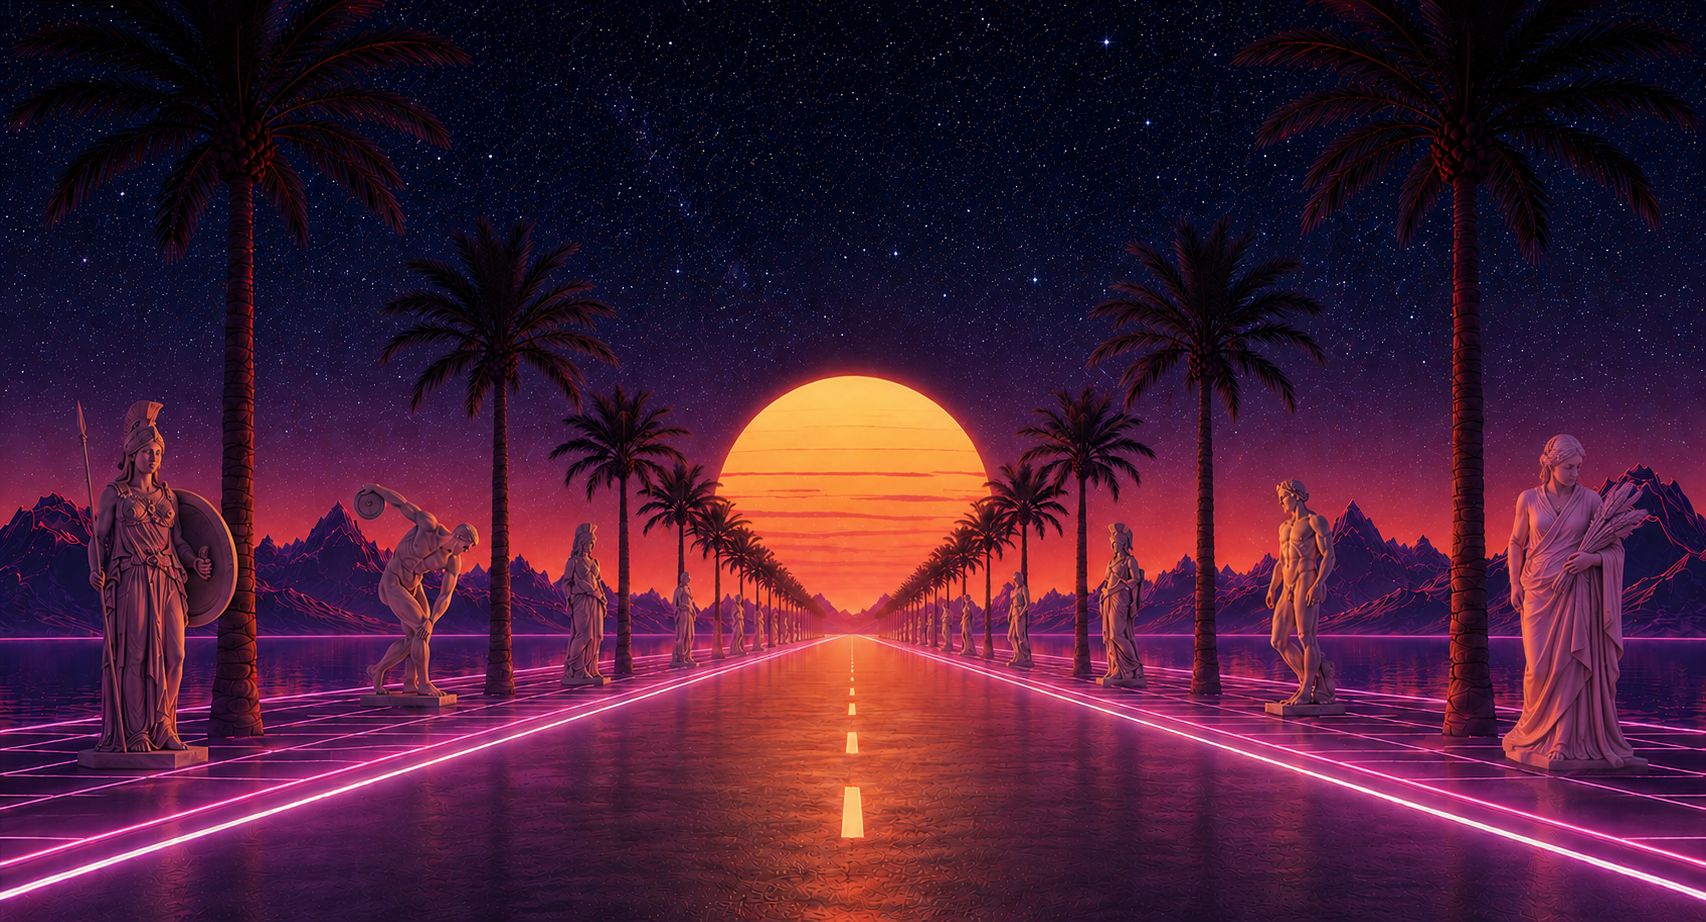
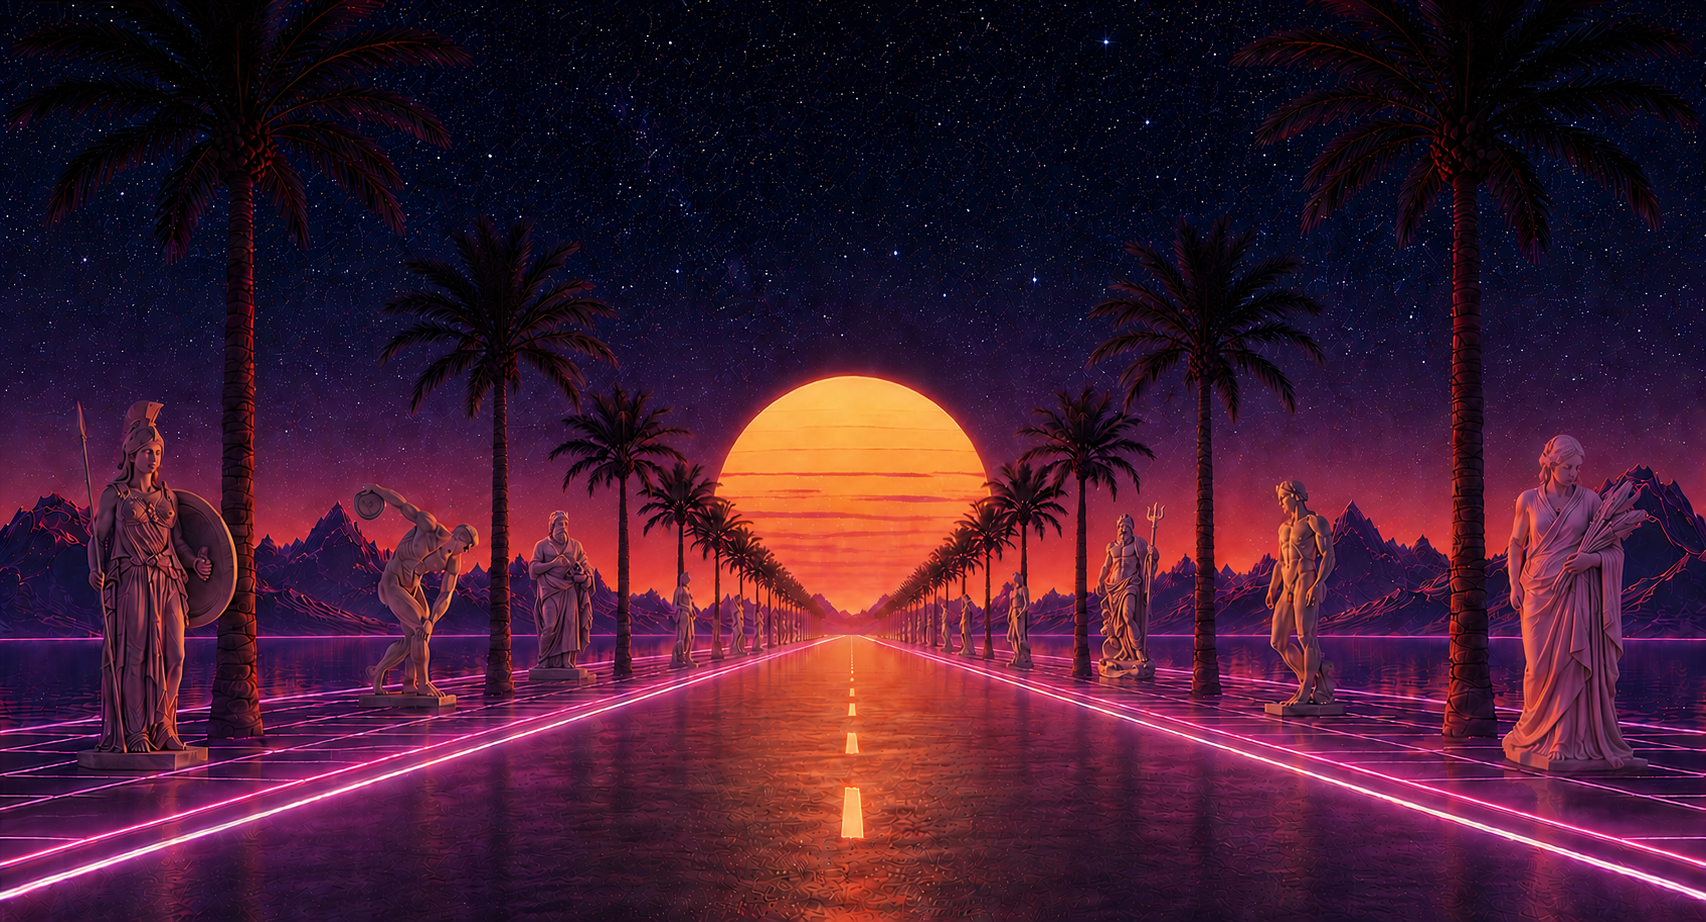
fixing main page

diff --git a/src/components/header.vue b/src/components/header.vue
@@ -26,7 +26,7 @@ const menuOpen = ref(false)
       <li
         class="h-8 px-3 sm:px-10 md:px-14 rounded-xl border-2 border-fuchsia-400 bg-fuchsia-100/70 text-black font-bold text-xs sm:text-base leading-none flex items-center justify-center backdrop-blur-sm transition-all duration-300 hover:scale-105 shadow-[0_0_18px_4px_rgba(217,70,239,0.7)] hover:shadow-[0_0_30px_8px_rgba(217,70,239,0.95)]"
       >
-        <a href="/a-propos">A propos</a>
+        <a href="/a-propos">À propos</a>
       </li>
     </ul>
 
@@ -38,10 +38,20 @@ const menuOpen = ref(false)
     >
       <Transition name="icon" mode="out-in">
         <svg v-if="menuOpen" key="close" viewBox="0 0 24 24" fill="none" class="w-6 h-6">
-          <path d="M6 18L18 6M6 6l12 12" stroke="currentColor" stroke-width="2" stroke-linecap="round"/>
+          <path
+            d="M6 18L18 6M6 6l12 12"
+            stroke="currentColor"
+            stroke-width="2"
+            stroke-linecap="round"
+          />
         </svg>
         <svg v-else key="open" viewBox="0 0 24 24" fill="none" class="w-6 h-6">
-          <path d="M4 6h16M4 12h16M4 18h16" stroke="currentColor" stroke-width="2" stroke-linecap="round"/>
+          <path
+            d="M4 6h16M4 12h16M4 18h16"
+            stroke="currentColor"
+            stroke-width="2"
+            stroke-linecap="round"
+          />
         </svg>
       </Transition>
     </button>

diff --git a/src/App.vue b/src/App.vue
@@ -15,7 +15,7 @@ const scrollTo = (id) => {
 const activites = [
   {
     id: 'projecteur',
-    title: 'Le Projecteur',
+    title: 'LE PROJECTEUR',
     image: projecteur2Img,
     gradient:
       'linear-gradient(to bottom right, var(--color-synthwave-magenta), var(--color-electric-violet))',
@@ -23,14 +23,14 @@ const activites = [
   },
   {
     id: 'decorateur',
-    title: "Décorateur d'intérieur",
+    title: "LE DÉCORATEUR D\'INTÉRIEUR",
     image: decorateur2Img,
     gradient: 'linear-gradient(to bottom right, var(--color-electric-violet), var(--color-blue))',
     url: '/ressources.html#/decorateur',
   },
   {
     id: 'disque-d-or',
-    title: 'Le DJ',
+    title: "LE DISQUE D'OR",
     image: dj2Img,
     gradient:
       'linear-gradient(to bottom right, var(--color-neon-sunset), var(--color-synthwave-magenta))',
@@ -95,7 +95,7 @@ const activites = [
           href="https://www.mydigitalschool.com/ecole-multimedia-lyon"
           target="_blank"
           rel="noopener noreferrer"
-          class="underline"
+          class="text-electric-violet underline underline-offset-4 hover:opacity-80 transition-opacity"
           >MyDigitalSchool</a
         >
         sous la supervision d’un formateur <br />
@@ -108,15 +108,15 @@ const activites = [
         style="font-family: 'Orbitron', sans-serif"
       >
         Dans la philosophie gréco-romaine antique, et notamment chez <br />
-        Aristote, la notion de
+        Aristote, la notion de «
         <a
           href="https://www.linkedin.com/pulse/se-soucier-de-trouver-le-juste-milieu-%C3%A9ric-delassus-owwhe/"
           target="_blank"
           rel="noopener noreferrer"
-          class="underline"
+          class="text-electric-violet underline underline-offset-4 hover:opacity-80 transition-opacity"
           >mésotès</a
         >
-        désigne la voie du juste milieu. <br />
+        » désigne la voie du juste milieu. <br />
         C’est précisément ce type de regard à la fois mesuré et nuancé <br />
         que nous avons pour ambition de développer ici à propos de l’IA.
       </p>

diff --git a/src/views/ActiviteList.vue b/src/views/ActiviteList.vue
@@ -16,7 +16,7 @@ const activities = [
     title: 'Le Projecteur',
     description:
       'Échangez avec un assistant conversationnel pour structurer votre projet IA et repartez avec une synthèse claire et exploitable.',
-    duration: '10-15 min',
+    duration: '10-15 minutes',
     tag: 'Cadrage de projet',
     accentColor: 'var(--color-electric-violet)',
     image: projecteurImg,
@@ -27,7 +27,7 @@ const activities = [
     title: "Décorateur d'intérieur",
     description:
       'Crée une pièce entière grâce à une IA : décris ton style et laisse la magie opérer.',
-    duration: '~10 min',
+    duration: '~10 minutes',
     tag: "Génération d'image",
     accentColor: 'var(--color-neon-sunset)',
     image: decorateurImg,
@@ -37,7 +37,7 @@ const activities = [
     id: 'disque-d-or',
     title: "Le Disque d'or",
     description: 'Compose une musique avec Suno et imagine la pochette de ton album avec une IA.',
-    duration: '~20 min',
+    duration: '~20 minutes',
     tag: 'Création musicale',
     accentColor: 'var(--color-synthwave-magenta)',
     image: djImg,
@@ -118,7 +118,7 @@ function faceStyle(activity) {
           <div class="card-inner">
             <!-- Recto : image (si dispo) ou gradient + titre -->
             <div
-              class="card-face rounded-2xl flex items-end p-4 sm:p-5"
+              class="card-face rounded-2xl flex items-start justify-center p-4 sm:p-5"
               :style="faceStyle(activity)"
             >
               <span
@@ -131,7 +131,7 @@ function faceStyle(activity) {
 
             <!-- Verso : image (si dispo) ou verre dépoli + infos -->
             <div
-              class="card-face card-back rounded-2xl border border-white/20 p-4 sm:p-6 flex flex-col justify-between overflow-hidden"
+              class="card-face card-back rounded-2xl border border-white/20 p-4 sm:p-6 flex flex-col justify-between text-center overflow-hidden"
               :class="!activity.image ? 'bg-retrogrid-black/80 backdrop-blur-md' : ''"
               :style="faceStyle(activity)"
             >
@@ -143,7 +143,7 @@ function faceStyle(activity) {
                 <p class="text-white/75 text-sm sm:text-base leading-relaxed mb-3 sm:mb-4">
                   {{ activity.description }}
                 </p>
-                <div class="flex flex-col items-start gap-2">
+                <div class="flex flex-col items-center gap-2">
                   <span
                     v-if="activity.tag"
                     class="text-sm sm:text-base text-white rounded-full px-3 py-1.5"

diff --git a/src/components/footer.vue b/src/components/footer.vue
@@ -26,7 +26,7 @@ const dolfiLogoUrl =
           class="flex flex-wrap items-end justify-center gap-20 sm:gap-30 lg:gap-50 pb-6 sm:pb-12"
         >
           <a
-            href="#"
+            href="https://www.instagram.com/mesotes.fr/"
             target="_blank"
             rel="noopener noreferrer"
             class="transition-transform duration-300 hover:scale-110"
@@ -52,7 +52,7 @@ const dolfiLogoUrl =
           </a>
 
           <a
-            href="#"
+            href="https://www.linkedin.com/company/mesotes/about/"
             target="_blank"
             rel="noopener noreferrer"
             class="transition-transform duration-300 hover:scale-110"

diff --git a/src/Apropos.vue b/src/Apropos.vue
@@ -95,7 +95,7 @@ const members = [
         class="flex-1 flex flex-col items-center justify-center gap-10 sm:gap-16 py-10 px-4 sm:px-8"
       >
         <h1 class="text-3xl sm:text-5xl font-bold text-white text-center uppercase leading-[1.4]">
-          L'équipe
+          équipe
         </h1>
 
         <div class="grid grid-cols-1 sm:grid-cols-2 xl:grid-cols-4 gap-8 justify-items-center">